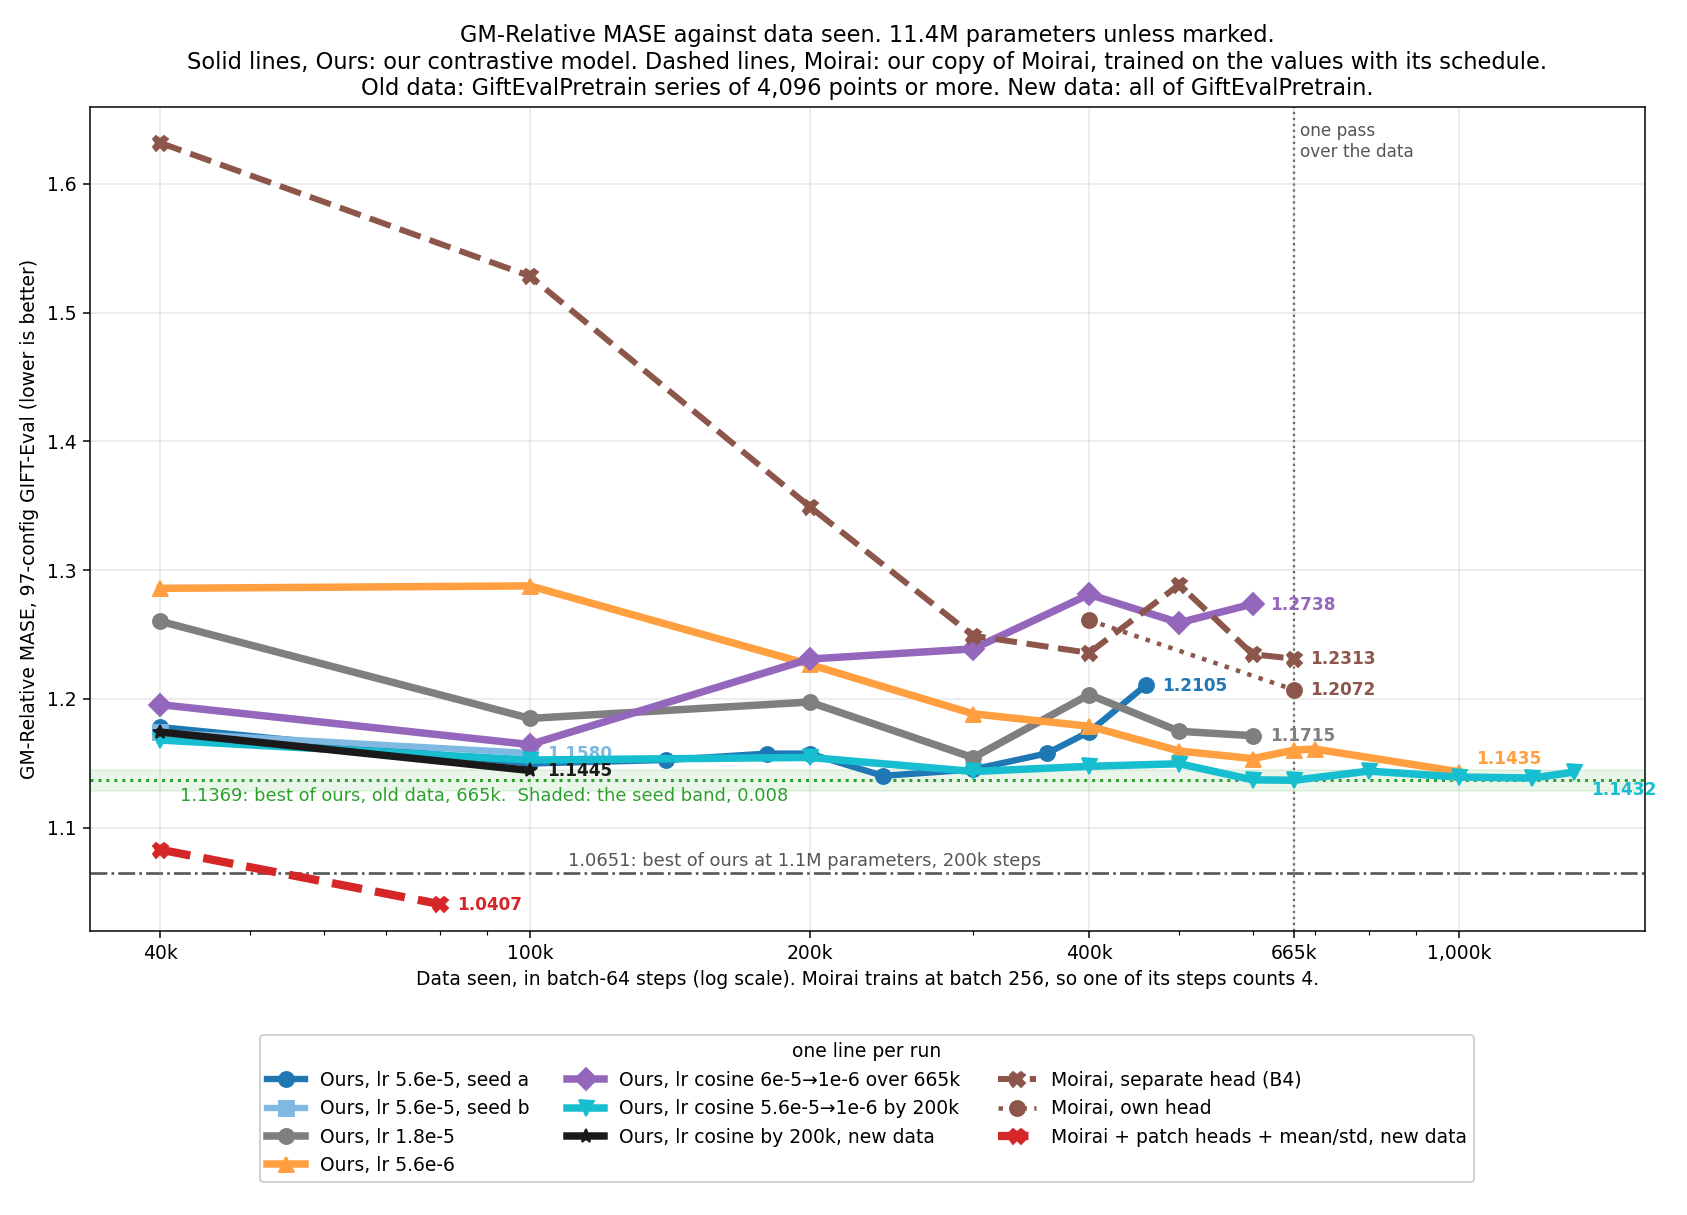
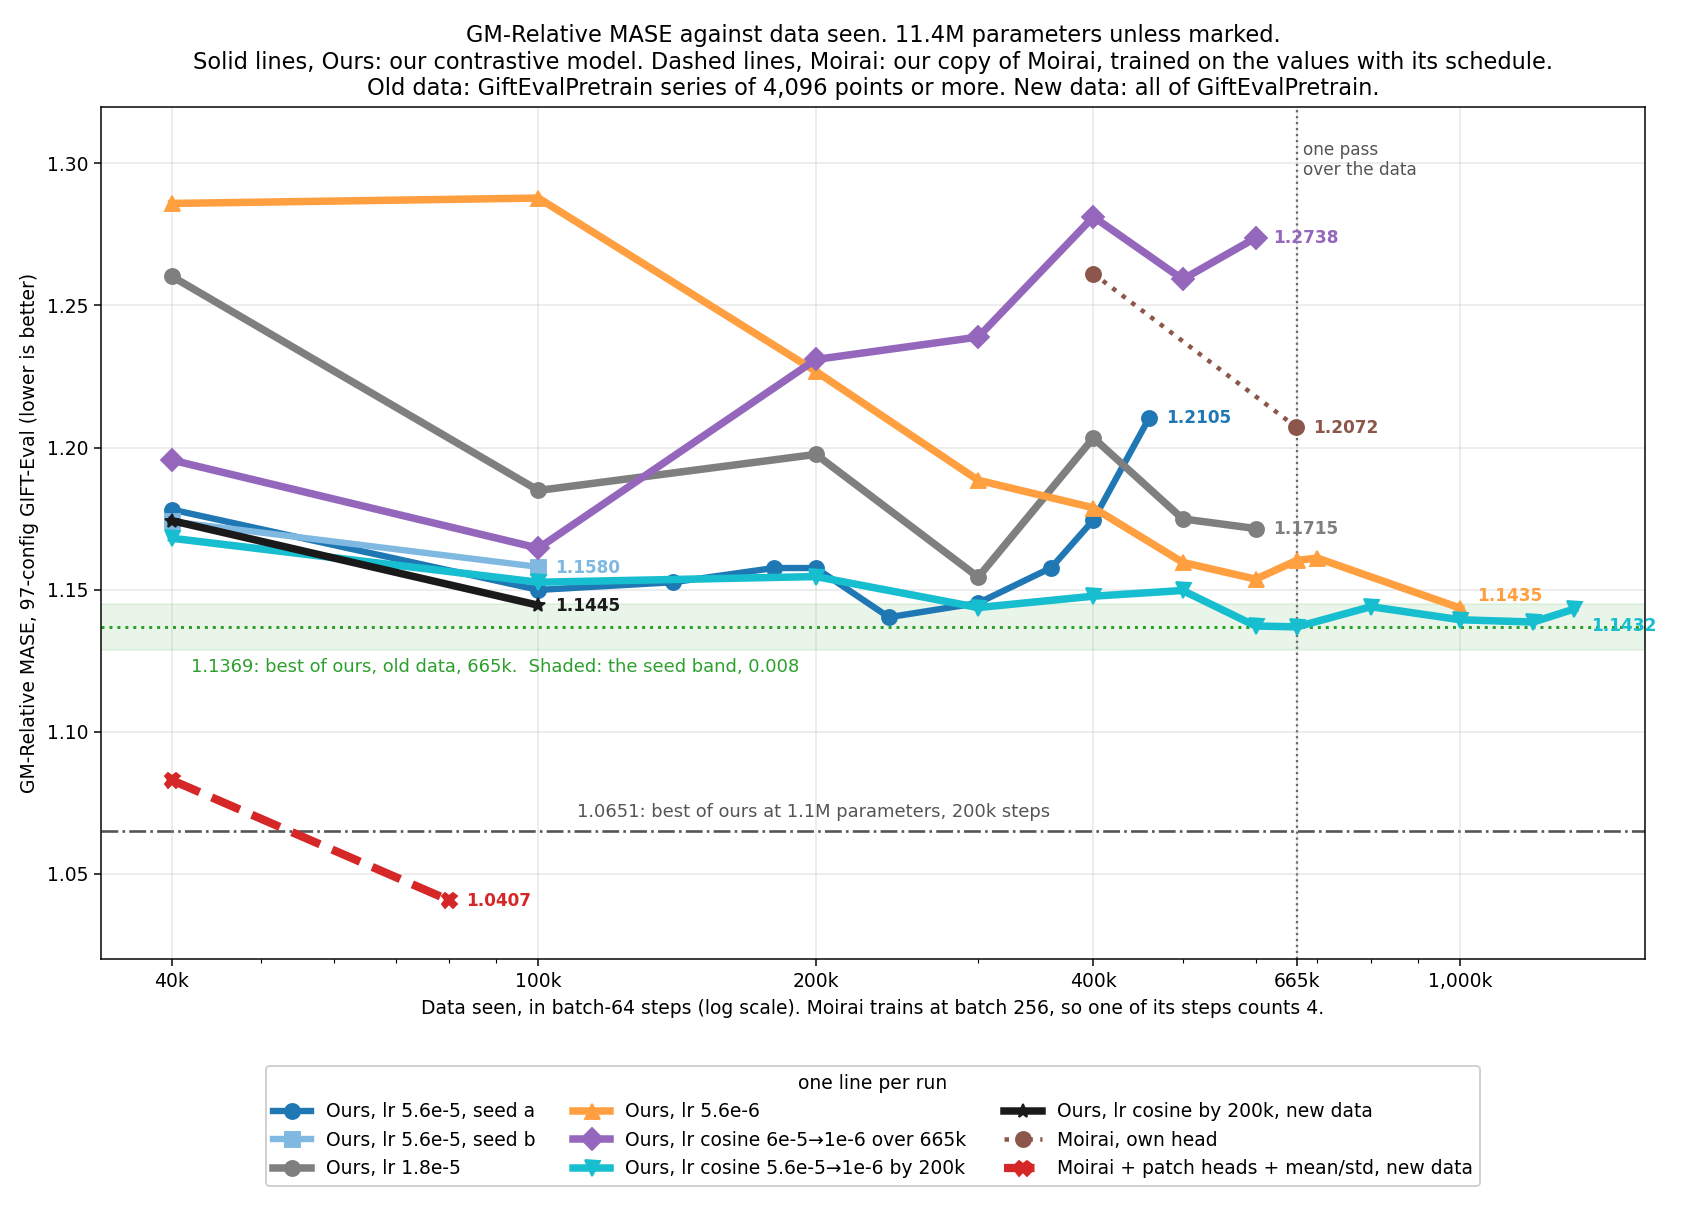
exp(#421): the curves leave out the separate-head Moirai run and end at 1.32

diff --git a/reports/2026-09-06_moirai_small_size/scripts/plot_gm_rates.py b/reports/2026-09-06_moirai_small_size/scripts/plot_gm_rates.py
@@ -21,7 +21,8 @@ RUNS = [
     # Ours: our contrastive model. The lr 5.6e-4 run (arm P) keeps its scores in
     # results/gm_trajectories.tsv; the owner took it off this figure. So do
     # the stopped runs b2cos (1.1M, the wrong width), cf419_moirai_native,
-    # cf421z_moirai_native (fp16) and cf421fb_moirai_native (GRU bound).
+    # cf421z_moirai_native (fp16), cf421fb_moirai_native (GRU bound) and
+    # cf415_moirai (a separate head, a mistake).
     (P + "_lr10x",    "Ours, lr 5.6e-5, seed a",                  3.4, "o"),
     (P + "_lr10xb",   "Ours, lr 5.6e-5, seed b",                  3.4, "s"),
     (P + "_lr30x",    "Ours, lr 1.8e-5",                          4.0, "o"),
@@ -30,7 +31,6 @@ RUNS = [
     (P + "_cos200k",  "Ours, lr cosine 5.6e-5→1e-6 by 200k",      4.0, "v"),
     ("cf419_cos200k", "Ours, lr cosine by 200k, new data",        4.0, "*"),
     # Moirai: our copy of Moirai, trained on the values with its schedule.
-    ("cf415_moirai",  "Moirai, separate head (B4)",               3.2, "X"),
     ("cf415_moirai_native", "Moirai, own head",                   2.4, "o"),
     ("cf421f_moirai_native", "Moirai + patch heads + mean/std, new data", 4.4, "X"),
 ]
@@ -43,7 +43,7 @@ XSCALE = {"cf415_moirai": 4, "cf415_moirai_native": 4, "cf419_moirai_native": 4,
 # Where the last score of a line prints, so two lines that end together part.
 END_LABEL_OFFSET = {P + "_lr100x": (9, 4), P + "_cos200k": (9, -12)}
 BEST, BAND, PROJECT_BEST = 1.1369, 0.008, 1.0651
-YMIN, YMAX = 1.02, 1.66
+YMIN, YMAX = 1.02, 1.32
 
 
 def load_points():
